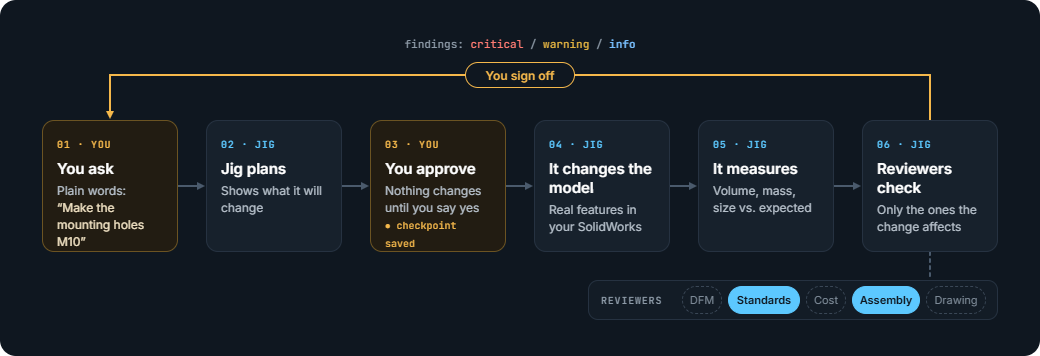
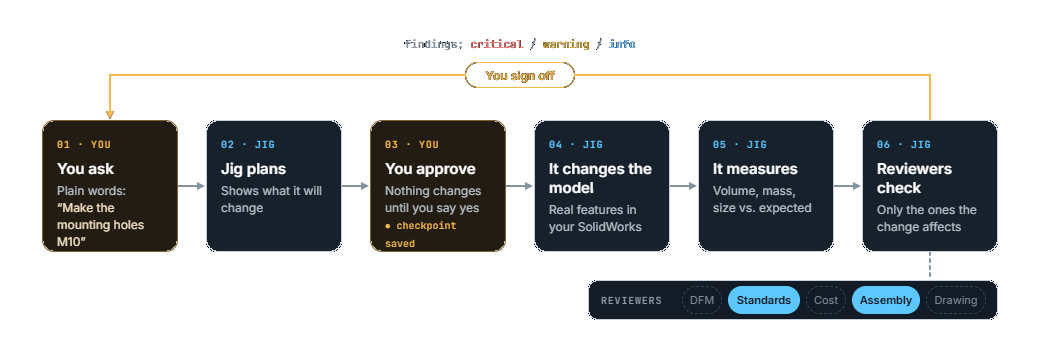
README: how-it-works diagram as image, shorter known limits

diff --git a/README.md b/README.md
@@ -134,30 +134,6 @@ blueprint/
 
 ## How it works
 
-```text
- engineer request
-       │
- ┌─────▼──────┐   impact map: which capabilities, which critics, baseline?
- │orchestrator│──────────────────────────────────────────────────┐
- └─────┬──────┘                                                  │
-       │ plan → confirm                                          │
- ┌─────▼─────────────────────────────┐      ┌──────────────┐     │
- │ Blueprint: inspect · edit · spec  │◀────▶│ blueprint.md │     │
- │            triage · record        │      └──────────────┘     │
- └─────┬─────────────────────────────┘                           │
-       │ connector (the only CAD access)                         │
- ┌─────▼─────┐  read-only   ┌───────────────────────┐            │
- │ CAD model │─────────────▶│ snapshot (only needed │            │
- └───────────┘              │ sections), neutral    │            │
-                            └──────────┬────────────┘            │
-                                       ▼                         │
-        DFM · Standards · Cost · Assembly · Drawing  ◀── only the selected ones, in parallel,
-                                       │                 stateless, never see the CAD
-                                       ▼
-                        flags: critical / warning / info,
-                        scope: caused by change / pre-existing
-```
-
 - **Critics are a pure function**: `(blueprint, snapshot, focus, baseline) → flags`. Because they only
   see neutral files, they don't depend on the CAD system.
 - **A critic can't block with a guess.** A critical flag needs cited evidence. A check the data can't
@@ -177,15 +153,12 @@ There is no FEA in v1. Blueprint keeps hand calculations for each load requireme
 
 ## Known limits (SolidWorks connector)
 
-What's available depends on the server version, and `/jig:doctor` lists what is live. With `sw-mcp`:
-
-- On multibody parts, faces and edges are read from the first body only.
-- Tolerances are read from the drawing's annotations. A part without a drawing is checked against its
-  general tolerance class.
-
-If you register the original upstream server (`solidworks-mcp` from PyPI) yourself instead, there are
-no drawing tools: tolerances and annotations can't be read, so Standards and Drawing fall back to the
-drawing PDF and report the rest as unverifiable, and `make_drawing` produces only a basic drawing.
+- It runs on Windows only and needs SolidWorks already open. The server attaches to it but won't
+  start it.
+- Only SolidWorks is supported for now. Jig is built to work with other CAD programs, but SolidWorks
+  is the only connector so far.
+- Long sessions slow SolidWorks down, because its memory use grows over time. On a low-memory
+  warning, save and restart SolidWorks between runs, never during one.
 
 See [`connectors/solidworks/CONNECTOR.md`](connectors/solidworks/CONNECTOR.md).
 
